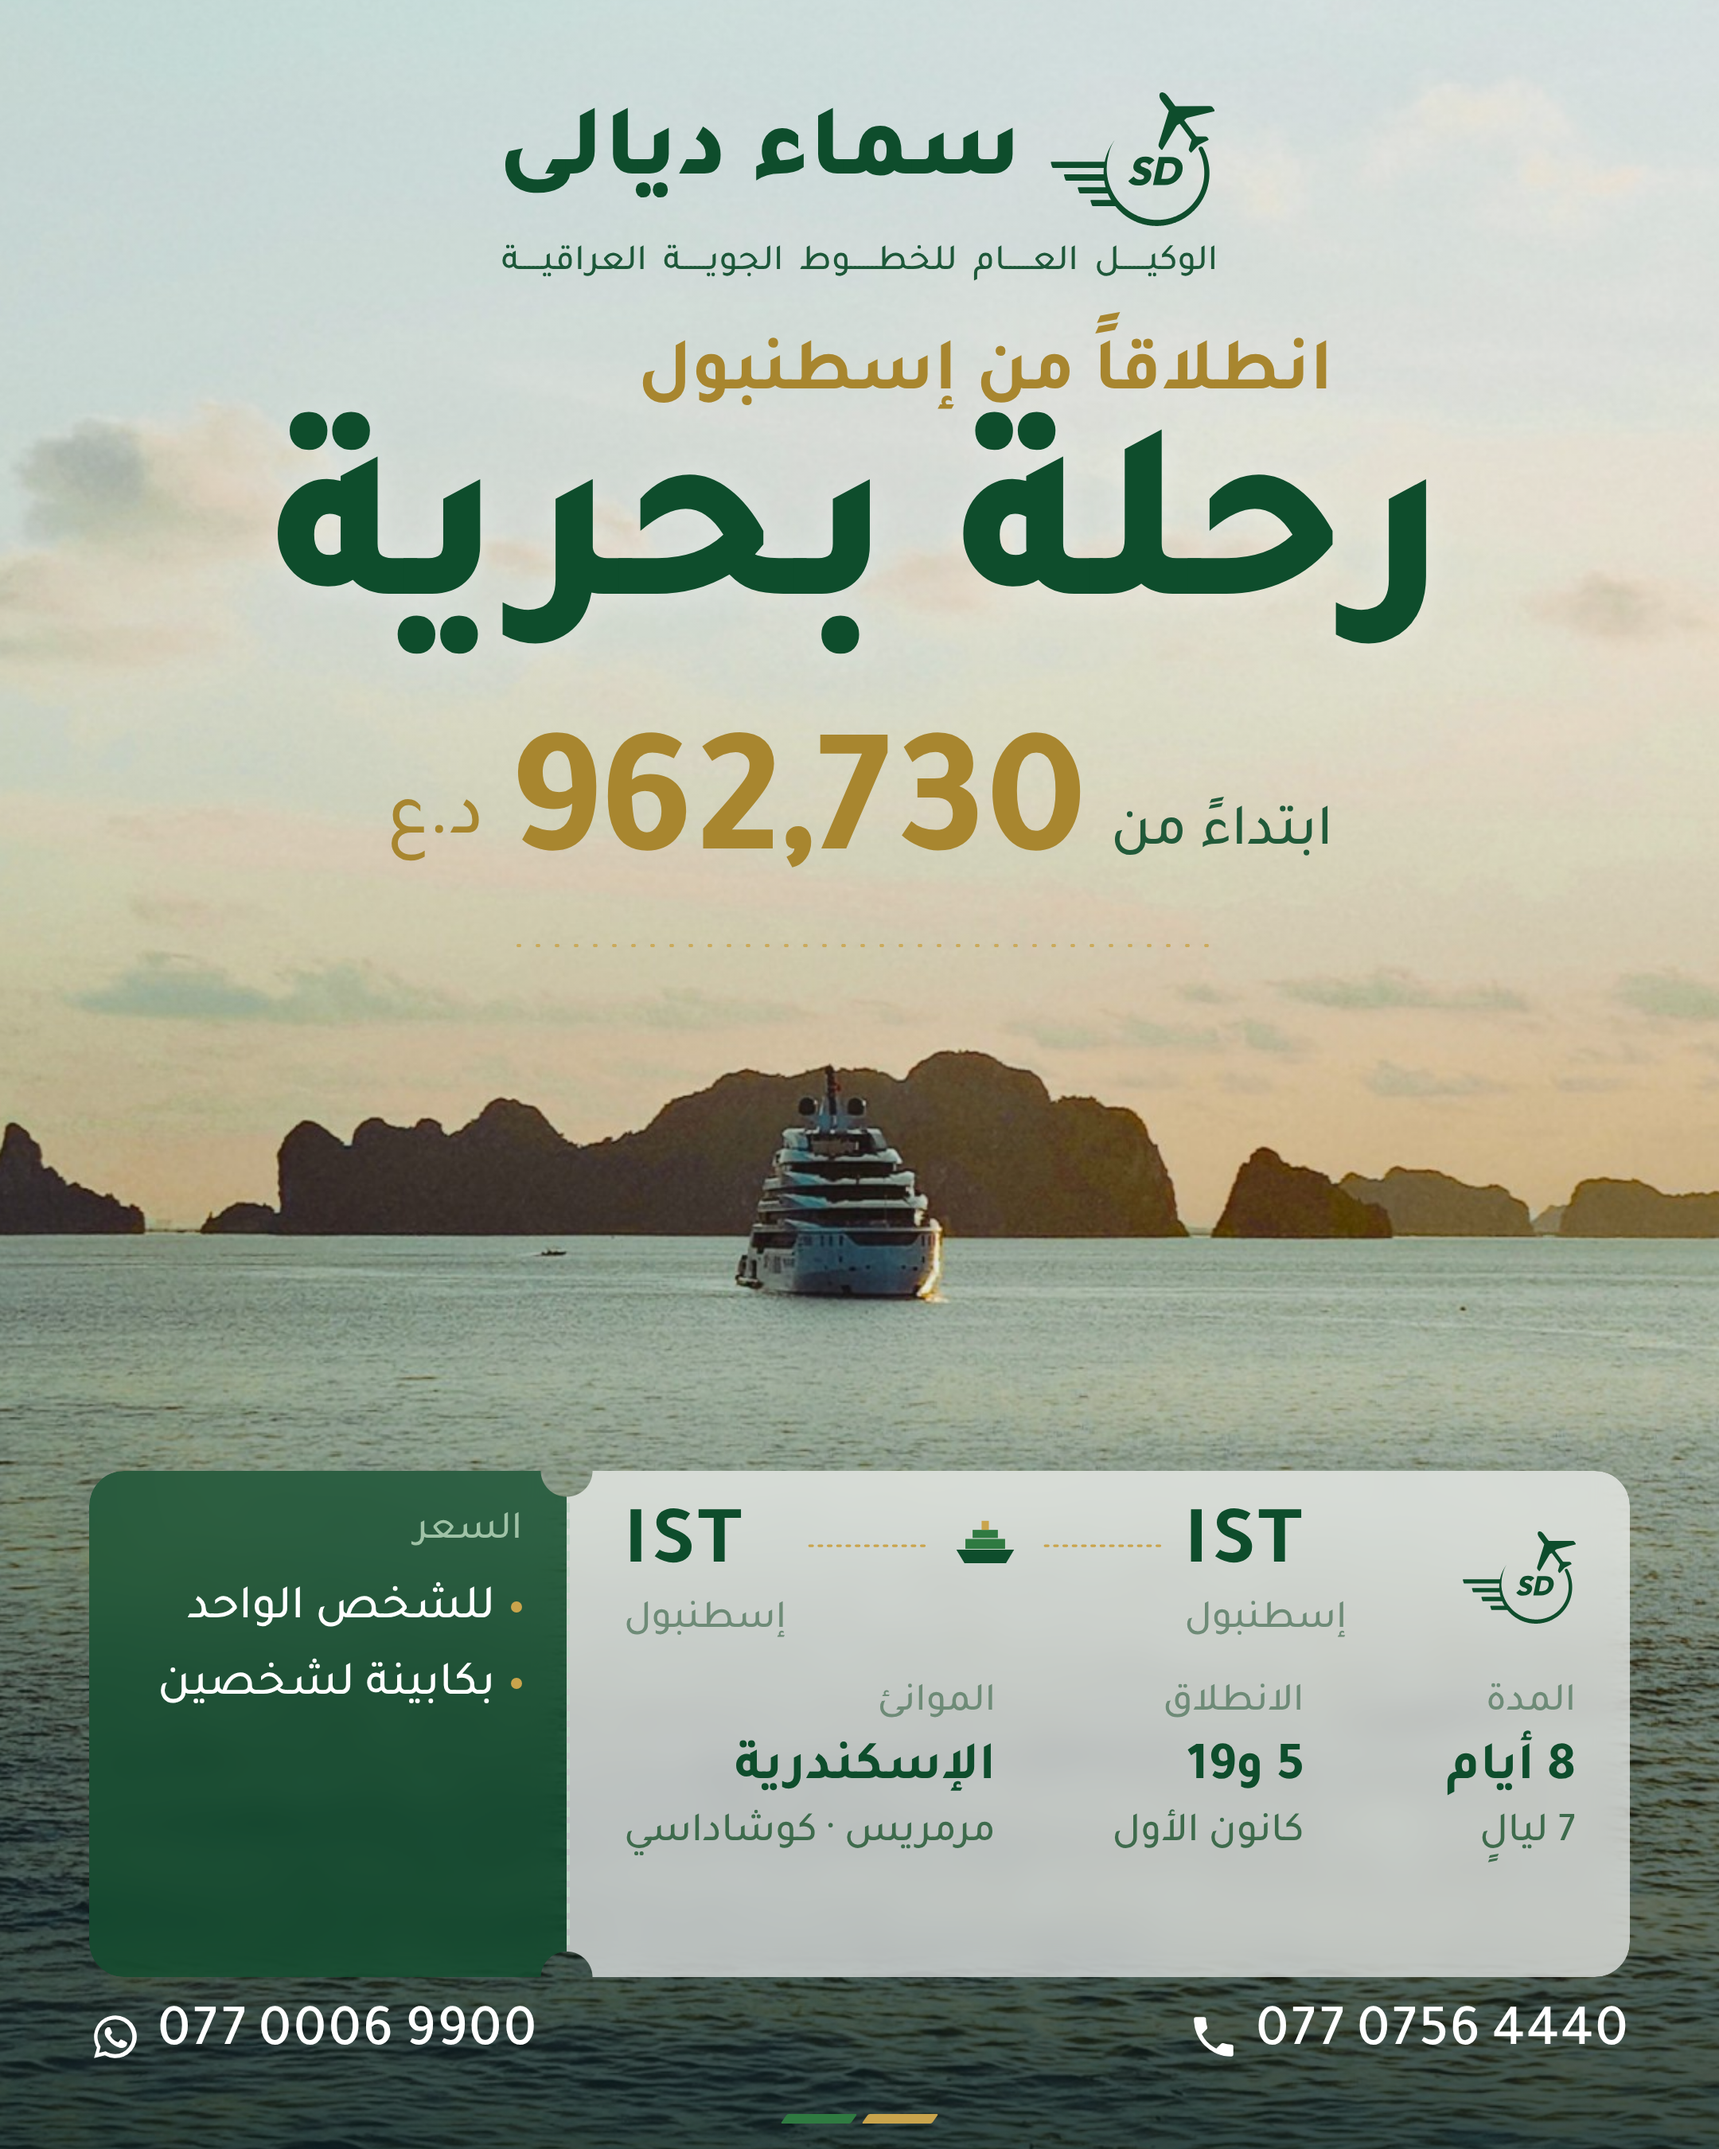
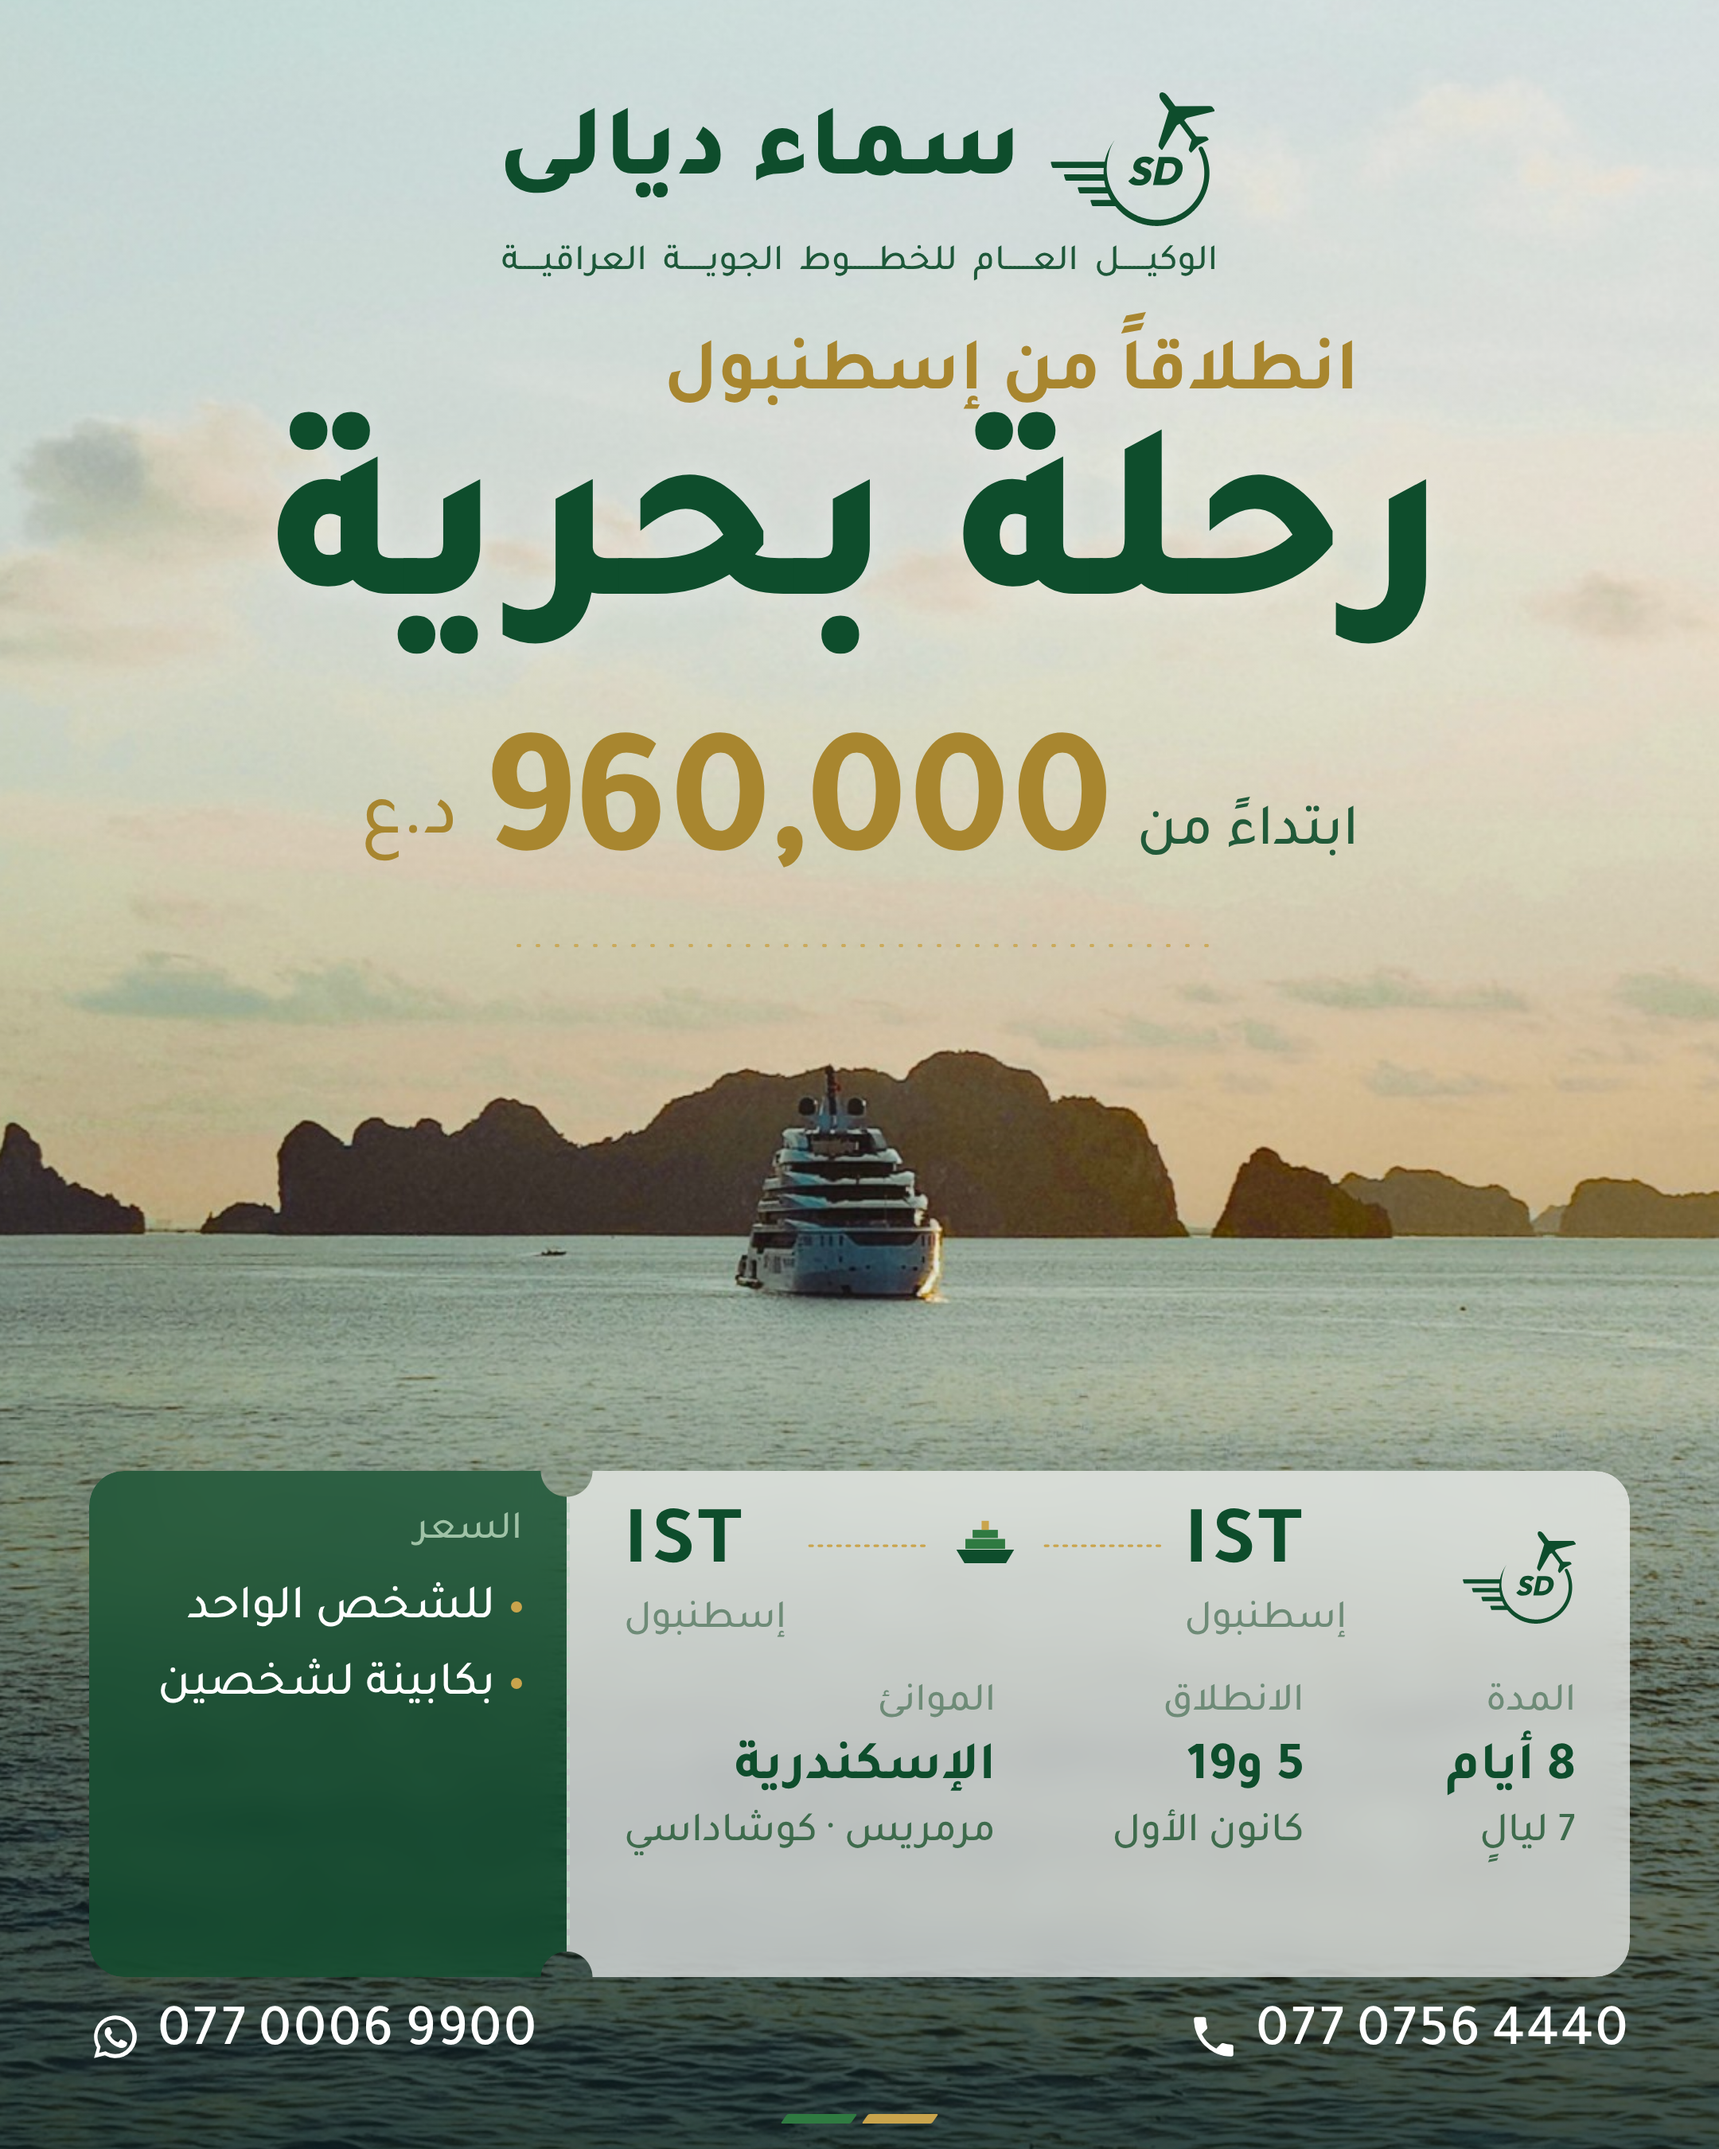
الرحلة البحرية: السعر 960,000 د.ع
Claude-Session: https://claude.ai/code/session_01EprWPUJDuKvYHn821imCPv

Changed region(s): [[0.2171, 0.3422, 0.7755, 0.4044], [0.3722, 0.1556, 0.8065, 0.1867]]

diff --git a/09-التصاميم/رحلة بحرية من إسطنبول - نظيف مع بطاقة صعود/إعلان.html b/09-التصاميم/رحلة بحرية من إسطنبول - نظيف مع بطاقة صعود/إعلان.html
@@ -17,7 +17,7 @@
 
 
   :root{
-    --kick-dx:79px;
+    --kick-dx:95.3px;
     --green:#0E4D2C; --mid:#2F7A41; --gold:#C9A44C; --light:#E9F2EA; --white:#FFFFFF;
     --ink:#0E4D2C;          /* single logo/text colour, chosen per background */
     --accent:#A8862F;   /* price colour */
@@ -142,7 +142,7 @@
     <div class="dest">رحلة بحرية</div>
     <div class="price">
       <span class="from">ابتداءً من</span>
-      <span class="num">962,730</span>
+      <span class="num">960,000</span>
       <span class="cur">د.ع</span>
     </div>
     <div class="perf"></div>

diff --git a/CLAUDE.md b/CLAUDE.md
@@ -83,7 +83,7 @@
 
 - عرض تذاكر "دبي من أربيل" (23 تشرين الثاني 2026، بسعر عرض منافس أعطاه إحسان 299,000 د.ع ذهاب وإياب): `09-التصاميم/دبي من أربيل - نظيف مع بطاقة صعود/`. الصورة المعتمدة برج خليفة عند الغروب (`08-الصور/وجهات/دبي - برج خليفة عند الغروب (الأصل).jpg`) مؤطّرة من الأسفل لتظهر معالم المدينة، ويُقص أعلى البرج (بطلب إحسان)، وتظليل بنفسجي داكن أعلى الصورة يجعل السعر الذهبي واضحاً بلا حد، وبين "دبي" والسعر مسافة 34px. ترويسة بيضاء وسطر علوي ذهبي. نسختا مرسى دبي (`إعلان - مرسى دبي.html`) والكولاج بصورتين (`إعلان - كولاج صورتين.html`) محفوظتان. السطر فوق الوجهة "أربيل – دبي – أربيل"، والمسار في البطاقة EBL ← DXB ← EBL، والكعب "ذهاب وإياب" و"أربيل – دبي – أربيل"، والخطوط مكبّرة في كل الإعلان عدا الترويسة المقاسة. فيه رقمان: 077 0006 9900 بواتساب يساراً، و077 0756 4440 بأيقونة هاتف يميناً (بلا +964). والستوري 1080×1920 بخط تجوال: `09-التصاميم/دبي من أربيل - ستوري/` (الصورة تغطي الإطار من الأسفل، والترويسة top:230، والبطاقة bottom:340، والرقمان bottom:268).
 
-- رحلة بحرية من إسطنبول (24 تشرين الثاني 2026): `09-التصاميم/رحلة بحرية من إسطنبول - نظيف مع بطاقة صعود/` (فيه ملفا المصدر: خط السير وأسعار الكابينات بالدولار، والأسعار للكابينة كاملة لا للشخص، وعنوان ملف الأسعار فيه B2B). سفينة أرويا، 8 أيام / 7 ليالٍ: إسطنبول، يوم بالبحر، الإسكندرية (مبيت)، مرمريس، كوشاداسي، يوم بالبحر، إسطنبول. السعر بطلب إحسان: أقل كابينة لشخصين (داخلية 1,066$) ÷ 2 = 533$، + 30$ = 563$ × 1,710 = 962,730 د.ع للشخص (رحلات 5 و19 كانون الأول؛ رحلة 28 تشرين الثاني بالسعر نفسه لم تُذكر لقربها). الصورة يخت بين جزر خليج ها لونغ (فيتنام) عند الغروب، فلا يُكتب في الإعلان "على متن سفينة أرويا" فوق صورة سفينة أخرى. ترويسة خضراء وسعر بالذهبي الغامق.
+- رحلة بحرية من إسطنبول (24 تشرين الثاني 2026): `09-التصاميم/رحلة بحرية من إسطنبول - نظيف مع بطاقة صعود/` (فيه ملفا المصدر: خط السير وأسعار الكابينات بالدولار، والأسعار للكابينة كاملة لا للشخص، وعنوان ملف الأسعار فيه B2B). سفينة أرويا، 8 أيام / 7 ليالٍ: إسطنبول، يوم بالبحر، الإسكندرية (مبيت)، مرمريس، كوشاداسي، يوم بالبحر، إسطنبول. السعر بطلب إحسان: أقل كابينة لشخصين (داخلية 1,066$) ÷ 2 = 533$، + 30$ = 563$ × 1,710 = 962,730، وقرّبه إحسان إلى 960,000 د.ع للشخص (رحلات 5 و19 كانون الأول؛ رحلة 28 تشرين الثاني بالسعر نفسه لم تُذكر لقربها). الصورة يخت بين جزر خليج ها لونغ (فيتنام) عند الغروب، فلا يُكتب في الإعلان "على متن سفينة أرويا" فوق صورة سفينة أخرى. ترويسة خضراء وسعر بالذهبي الغامق.
 
 ## التسليم (من 19 تشرين الثاني 2026)
 - المعتمد للنشر: صور PNG عالية الجودة (2160×2700). بعد كل تصميم أو تعديل تُنسخ تلقائياً إلى `13-جاهز-للنشر/` باسم العرض (مثل "الأردن رأس السنة.png")، وتُرسل الصورة لإحسان.
